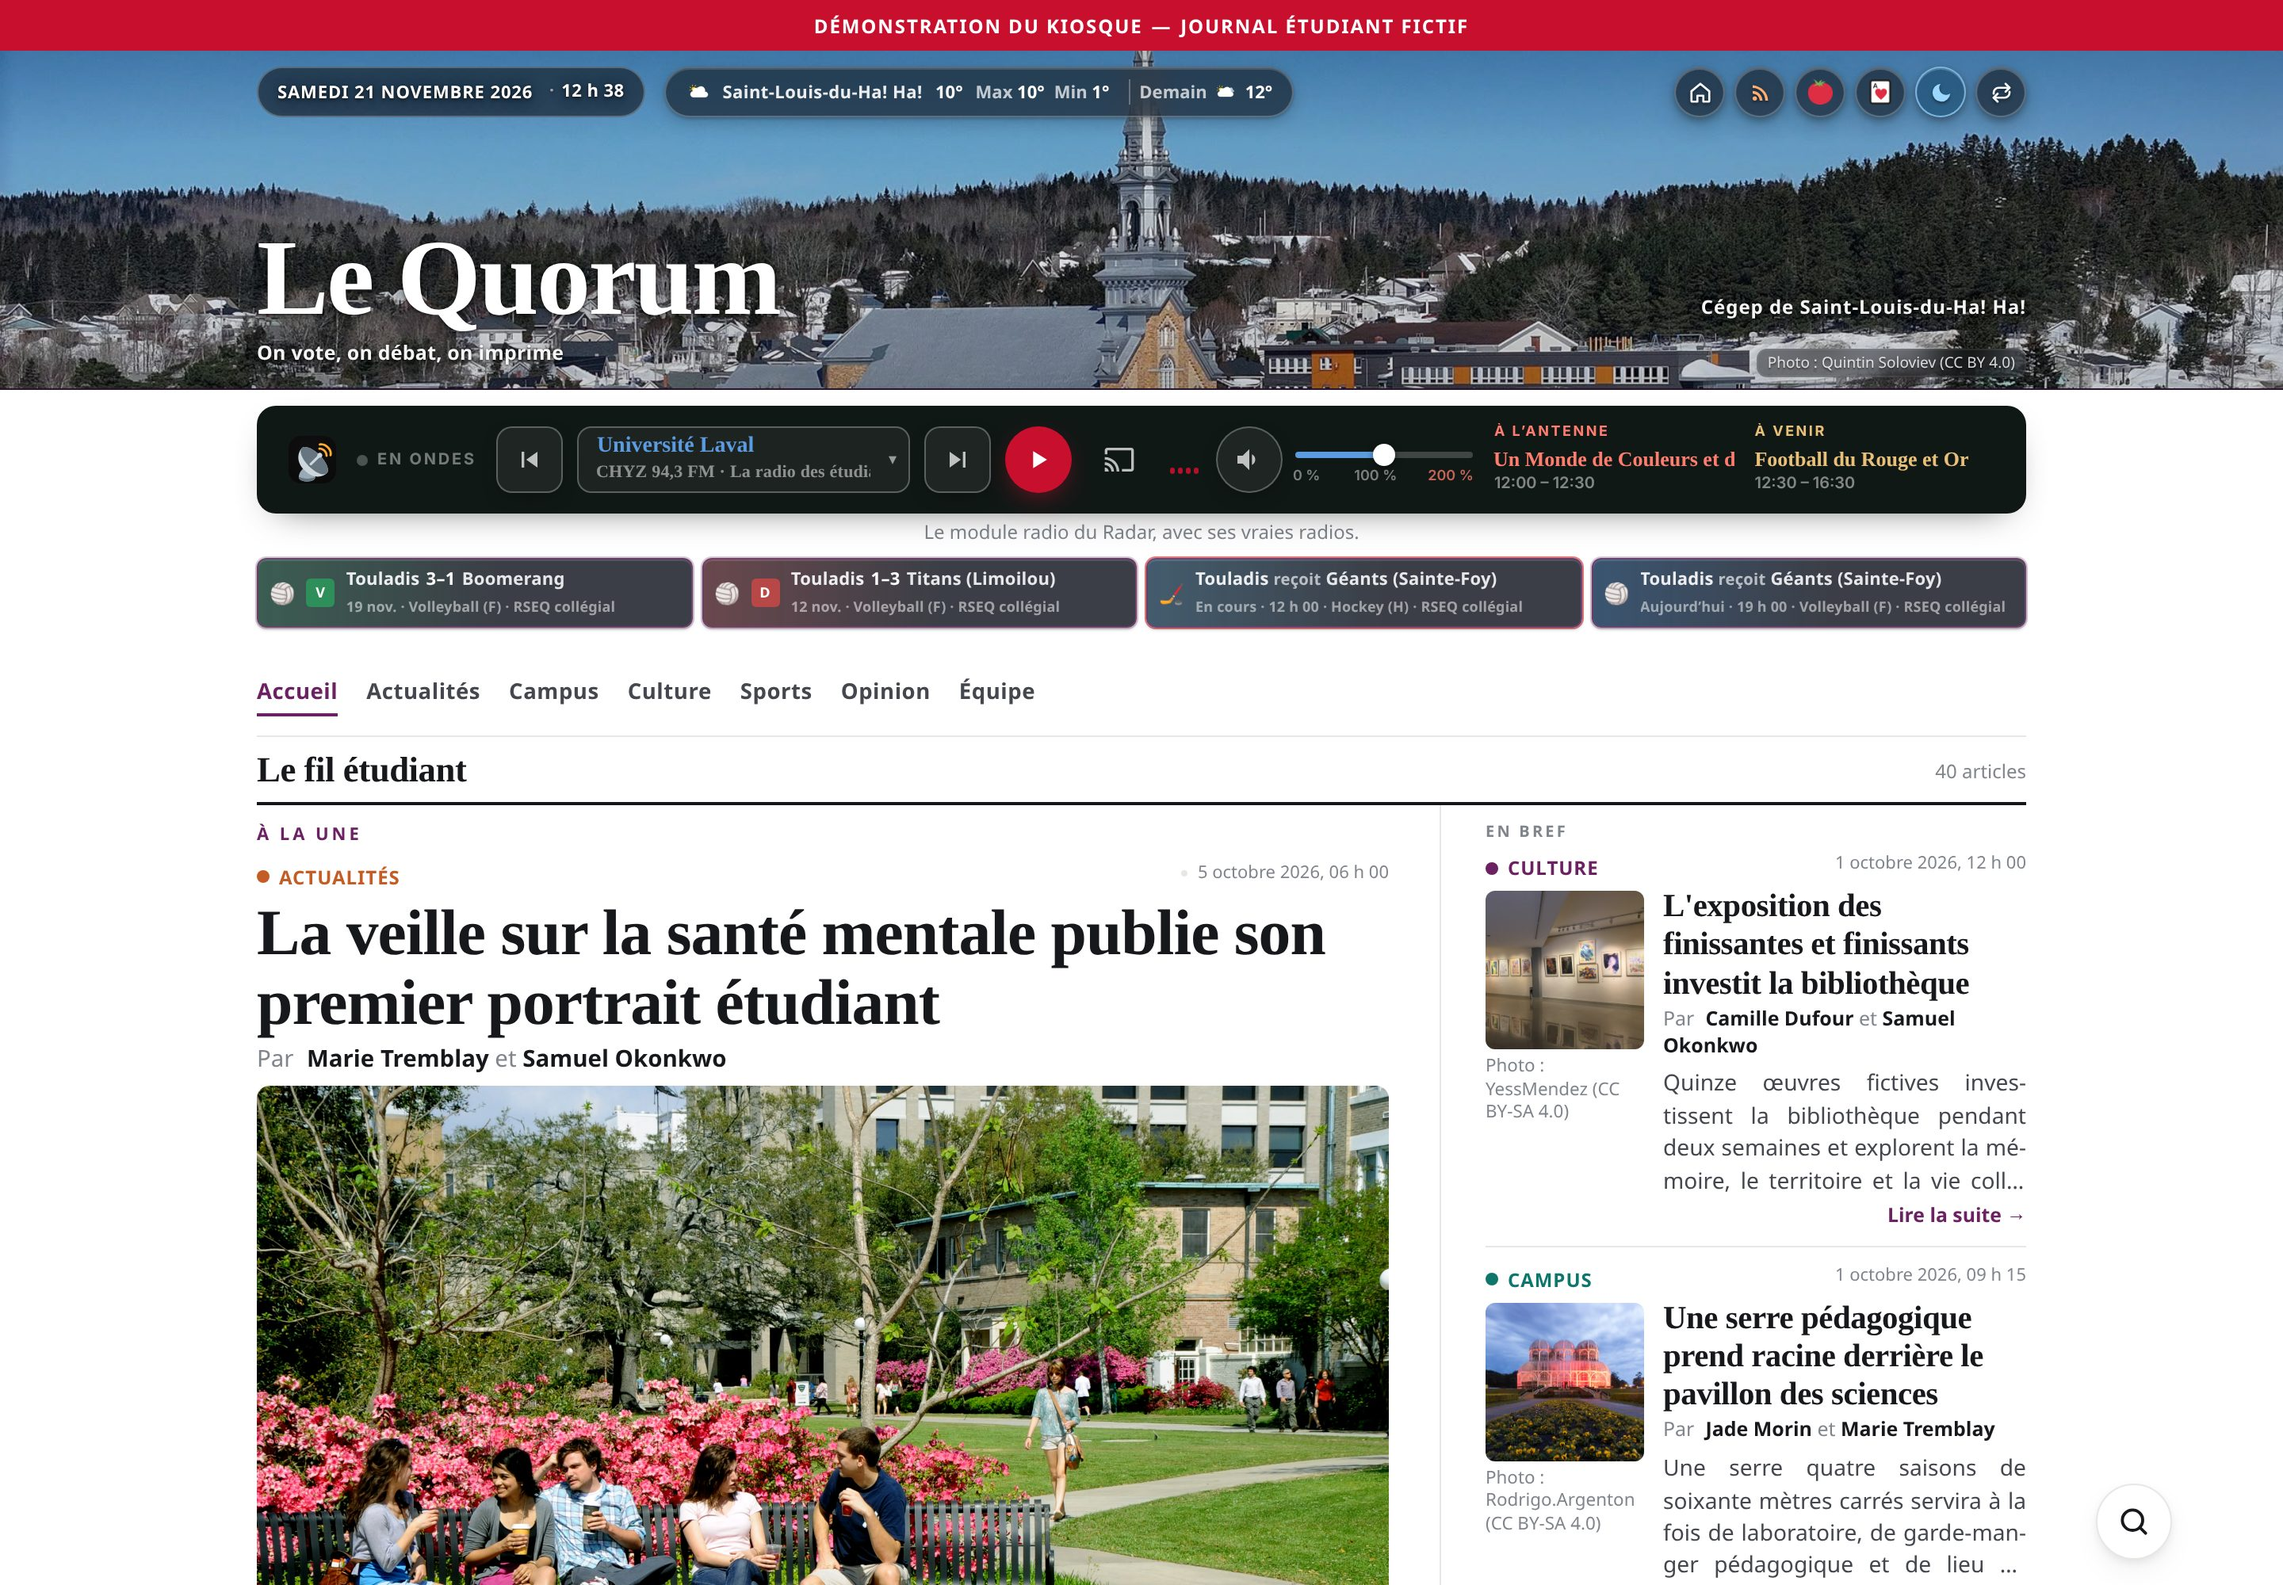
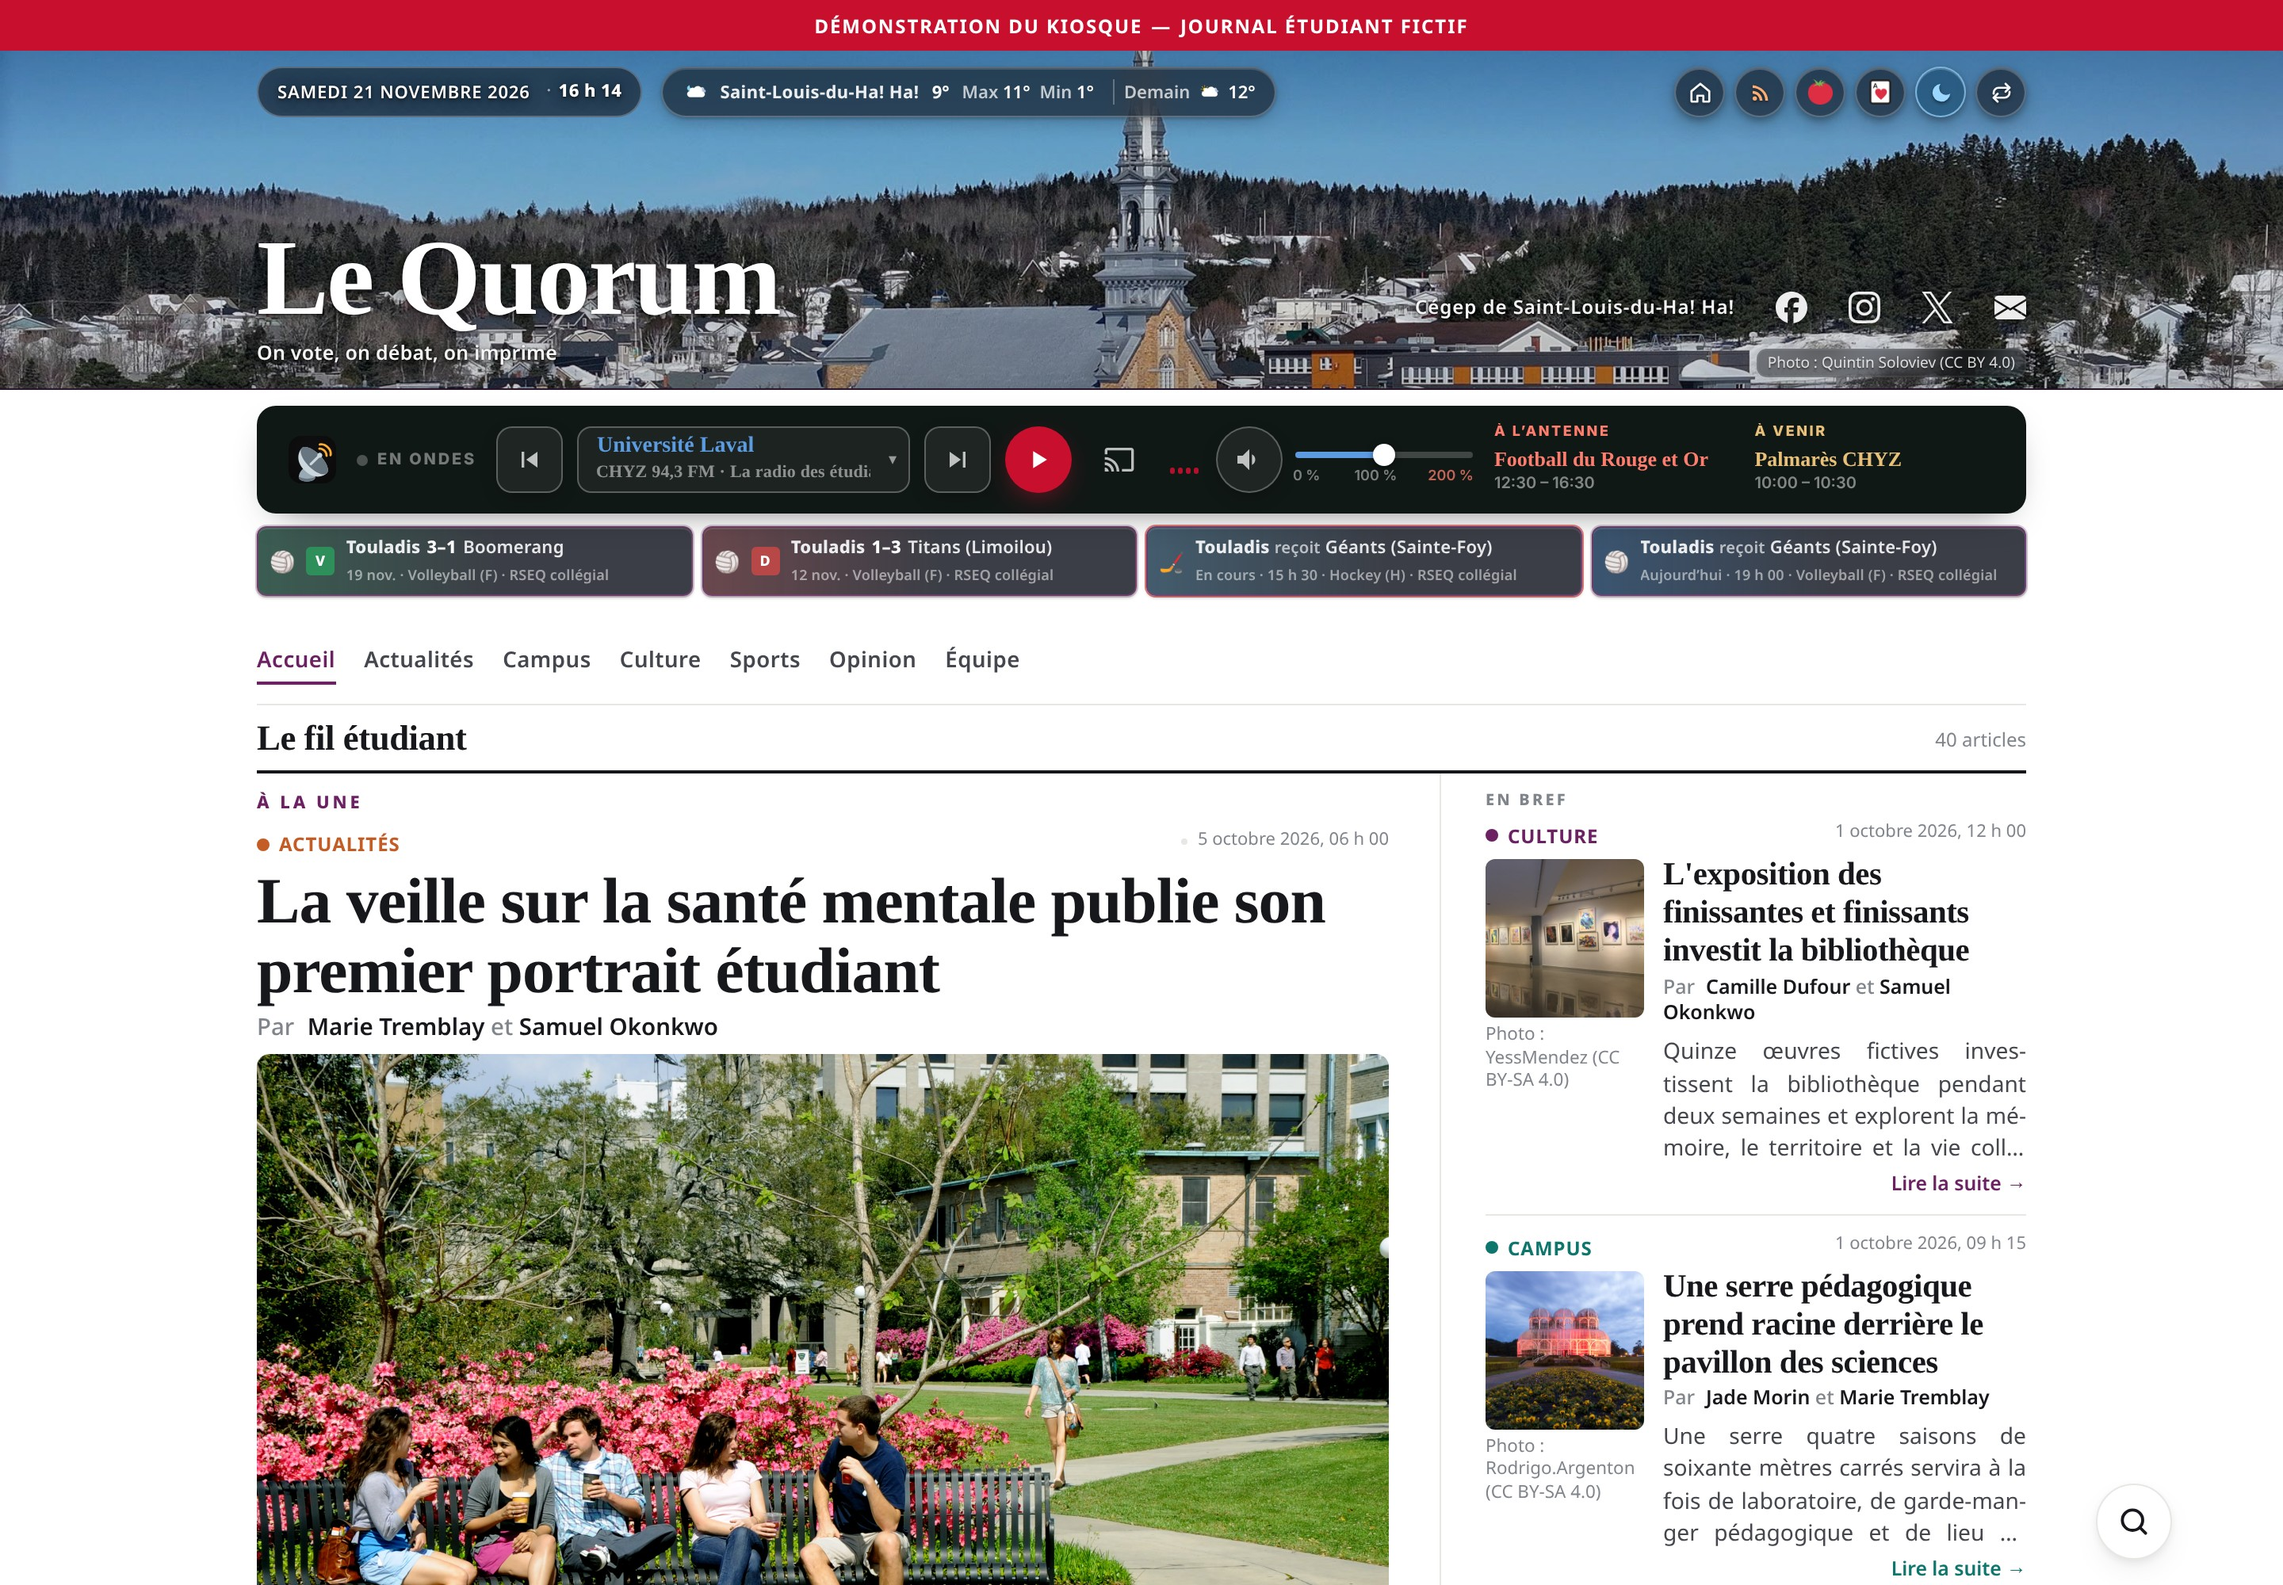
Démo : retirer la mention sous la barre radio, et les réseaux sociaux
La phrase « Le module radio du Radar, avec ses vraies radios. »
n’a pas sa place dans le journal. La barre CHYZ reste. Les
comptes fictifs du Quorum (Facebook, Instagram, X et courriel)
apparaissent au mât et au pied, par la fonction déjà prévue.

diff --git a/tests/jalon-3.test.ts b/tests/jalon-3.test.ts
@@ -66,7 +66,7 @@ test('la barre radio est le module de LE-RADAR, appelé en une ligne', async (t)
   const home = await readFile(path.join(out, 'index.html'), 'utf8');
   const client = await readFile(path.join(out, 'assets/kiosque.js'), 'utf8');
   const theme = await readFile(path.join(out, 'assets/theme.css'), 'utf8');
-  assert.match(home, /<div class="radar-radio-slot" data-station="chyz"><script src="https:\/\/le-radar\.ca\/radio-barre\.js" data-station="chyz" async onerror="this\.parentNode\.dataset\.radarRadio='off'"><\/script><p class="radar-radio-note">Le module radio du Radar, avec ses vraies radios\.<\/p><\/div>/);
+  assert.match(home, /<div class="radar-radio-slot" data-station="chyz"><script src="https:\/\/le-radar\.ca\/radio-barre\.js" data-station="chyz" async onerror="this\.parentNode\.dataset\.radarRadio='off'"><\/script><\/div>/);
   assert.match(home, /<body class="[^"]*with-radio/);
   assert.ok(!home.includes('<iframe'), 'aucune iframe radio');
   assert.ok(!home.includes('tuner-embed'));
@@ -153,7 +153,13 @@ test('la vitrine expose le bandeau illustré, les outils et la composition magaz
   assert.match(home, /Les Touladis/);
   assert.match(home, /lac-temiscouata\.jpg/, 'le mât part du lac Témiscouata');
   assert.match(home, /Photo : Amqui \(CC BY-SA 4\.0\)/, 'crédit exact de la première photo du mât');
-  assert.match(home, /Le module radio du Radar, avec ses vraies radios\./);
+  assert.doesNotMatch(home, /module radio du Radar|vraies radios/, 'pas de mention méta sous la barre radio');
+  assert.match(home, /class="social-links masthead-social"/, 'icônes sociales au mât');
+  assert.match(home, /class="social-links site-foot__social"/, 'icônes sociales au pied');
+  assert.match(home, /href="https:\/\/www\.instagram\.com\/lequorum\.exemple"/);
+  assert.match(home, /href="https:\/\/www\.facebook\.com\/lequorum\.exemple"/);
+  assert.match(home, /href="https:\/\/x\.com\/lequorum_exemple"/);
+  assert.match(home, /href="mailto:redaction@lequorum\.ca"/);
   assert.doesNotMatch(home, /mcgill-|ulaval-|bishops-|concordia-hall|udem-gaudry|sherbrooke-longueuil|batiment-jonquiere/, 'plus de campus réels dans la rotation du mât');
   assert.match(home, /\/sports\//, 'puce sports pointe vers la page résultats');
   const sportsPage = await readFile(path.join(out, 'sports/index.html'), 'utf8');

diff --git a/tests/product-demo-parity.test.ts b/tests/product-demo-parity.test.ts
@@ -119,7 +119,14 @@ test('demo et template reçoivent le même theme.css / kiosque.js (packages/them
   assert.match(tplHome, /id="masthead-weather-dock"/);
   assert.match(demoHome, /data-sports-payload/, 'équipe sports démo embarquée');
   assert.match(demoHome, /Les Touladis/, 'surnom maison unique (Touladis)');
-  assert.match(demoHome, /Le module radio du Radar, avec ses vraies radios\./, 'mention : vraies radios du Radar, pas une radio du cégep fictif');
+  assert.doesNotMatch(demoHome, /module radio du Radar|vraies radios/, 'pas de mention méta sous la barre radio');
+  assert.match(demoHome, /class="social-links masthead-social"/, 'icônes sociales au mât');
+  assert.match(demoHome, /class="social-links site-foot__social"/, 'icônes sociales au pied');
+  assert.match(demoHome, /href="https:\/\/www\.instagram\.com\/lequorum\.exemple"/);
+  assert.match(demoHome, /href="https:\/\/www\.facebook\.com\/lequorum\.exemple"/);
+  assert.match(demoHome, /href="https:\/\/x\.com\/lequorum_exemple"/);
+  assert.match(demoHome, /href="mailto:redaction@lequorum\.ca"/);
+  assert.doesNotMatch(tplHome, /class="social-links"/, 'le gabarit vide n’affiche pas d’icônes sociales');
   assert.match(demoHome, /code&quot;:&quot;SLHH&quot;|"code":"SLHH"/, 'code équipe SLHH (override mainteneur)');
   assert.match(demoHome, /data-nav-shell/, 'shell nav mobile');
   assert.match(tplHome, /data-nav-shell/);

diff --git a/packages/theme-radar/assets/theme.css b/packages/theme-radar/assets/theme.css
@@ -405,18 +405,6 @@ body.with-radio [id] {
   animation: radar-radio-attente 1.6s ease-in-out infinite;
 }
 .radar-radio-slot:not([data-radar-radio]) > .radar-radio { display: none; }
-/* Mention sous la barre, une fois le module prêt : les stations sont celles
- * du Radar, pas une radio inventée pour le journal. Cachée pendant le
- * chargement, pour ne pas gonfler la place réservée. */
-.radar-radio-note {
-  display: none;
-  margin: 4px 0 0;
-  font-size: 0.75rem;
-  line-height: 1.35;
-  text-align: center;
-  color: var(--muted, #5c6570);
-}
-.radar-radio-slot[data-radar-radio="ready"] .radar-radio-note { display: block; }
 @media (max-width: 720px) {
   .radar-radio-slot:not([data-radar-radio])::before { height: 58px; }
   /* Même air qu’entre la puce météo et la carte sport (padding-top 4 px du bandeau). */
@@ -433,8 +421,7 @@ body.with-radio [id] {
   .radar-radio-slot:not([data-radar-radio])::before { animation: none; }
 }
 @media print {
-  .radar-radio-slot::before,
-  .radar-radio-note { display: none !important; }
+  .radar-radio-slot::before { display: none !important; }
 }
 /* Petit air entre la barre radio et la rangée de rubriques. */
 body.with-radio .nav-wrap {

diff --git a/packages/theme-radar/src/radio.js b/packages/theme-radar/src/radio.js
@@ -33,7 +33,7 @@ export function radioBarHtml(radio) {
   if (!station) return '';
   // La place de la barre est réservée dès le départ (theme.css) ; si le module
   // ne se charge pas, l'emplacement se replie aussitôt (« off »).
-  return `<div class="radar-radio-slot" data-station="${station}"><script src="${RADAR_MODULE}" data-station="${station}" async onerror="this.parentNode.dataset.radarRadio='off'"></script><p class="radar-radio-note">Le module radio du Radar, avec ses vraies radios.</p></div>`;
+  return `<div class="radar-radio-slot" data-station="${station}"><script src="${RADAR_MODULE}" data-station="${station}" async onerror="this.parentNode.dataset.radarRadio='off'"></script></div>`;
 }
 
 /**
@@ -51,9 +51,6 @@ export function radioSlotElement(radio, doc = document) {
   script.async = true;
   script.dataset.station = station;
   script.addEventListener('error', () => { slot.dataset.radarRadio = 'off'; });
-  const note = doc.createElement('p');
-  note.className = 'radar-radio-note';
-  note.textContent = 'Le module radio du Radar, avec ses vraies radios.';
-  slot.append(script, note);
+  slot.append(script);
   return slot;
 }

diff --git a/AGENTS.md b/AGENTS.md
@@ -271,7 +271,7 @@ on ne recrée pas de deuxième journal d’état.
 | **fait** | Démo embarquée et workflows de mise à jour | `tools/build-site.mjs` force `editorial.mode: demo-local`, l’adaptateur Markdown et `demoContent: true` pour la démo de la vitrine. Un journal branché sur un socle (`external`, `demoContent: false`) héritait de ces réglages : pas de `seed.json`, l’admin ne montrait jamais « Tableau de bord ». Les workflows `maj-plateforme` et `maj-socle` ont une concurrence, un `timeout-minutes` et retentent les coupures réseau. Si GitHub interdit aux actions d’ouvrir une pull request, `tools/proposer-maj.sh` ouvre une issue avec le lien, puis échoue seulement si ni l’une ni l’autre n’a pu être créée. |
 | **fait** | Issue unique « CI en échec sur main » | `ci-en-echec.yml` est appelé par `ci-en-echec-appel.yml` (`workflow_run` sur main). Le workflow n’est pas dans sa propre liste : il ne se relance pas. Une seule issue, étiquette `ci-en-echec`, mise à jour à l’échec (nom, lien du run, heure), fermée avec un commentaire quand il ne reste plus d’échec. `GITHUB_TOKEN` seulement, délai de 2 minutes, concurrence sans annulation. Les dépôts privés portent une copie autonome du même script. `le-radar` n’est pas modifié. |
 | **fait** | Domaine kiosque.le-radar.ca | La vitrine Pages est à la racine (`kiosque.config.ts` : `basePath` vide, `origin`, `cname`). Le workflow Vérification ne reprend pas le `base_path` annoncé par GitHub tant que le domaine n’est pas enregistré dans les réglages Pages. L’artefact porte `CNAME`. Canonical, Open Graph, sitemap et manifeste utilisent `https://kiosque.le-radar.ca/`. La page du Socle est `https://socle.le-radar.ca/`. |
-| **fait** | Démo Quorum : surnom et mât du Témiscouata | « Les Élans » est le surnom réel du Cégep Garneau. L’équipe maison du Quorum s’appelle « Les Touladis » (le touladi, poisson du lac Témiscouata ; aucun club collégial du RSEQ). Le mât tourne des photos de Saint-Louis-du-Ha! Ha! et du Témiscouata, en CC BY ou CC BY-SA, avec le lieu réel en légende. La banque et les photos d’articles ne bougent pas. La barre radio reste le module du Radar (CHYZ) ; une mention dit que ce sont ses vraies radios. |
+| **fait** | Démo Quorum : surnom et mât du Témiscouata | « Les Élans » est le surnom réel du Cégep Garneau. L’équipe maison du Quorum s’appelle « Les Touladis » (le touladi, poisson du lac Témiscouata ; aucun club collégial du RSEQ). Le mât tourne des photos de Saint-Louis-du-Ha! Ha! et du Témiscouata, en CC BY ou CC BY-SA, avec le lieu réel en légende. La banque et les photos d’articles ne bougent pas. La barre radio reste le module du Radar (CHYZ), avec ses stations réelles, sans mention méta sous la barre. |
 | **bloqué par produit/opérations** | Fédération LE-RADAR, API distante, stockage, rôles et DAM | Ne commencer qu’après définition des responsabilités d’authentification, d’exploitation et de stockage. |
 
 ### Port éditorial LE-RADAR : contrat d’acceptation
